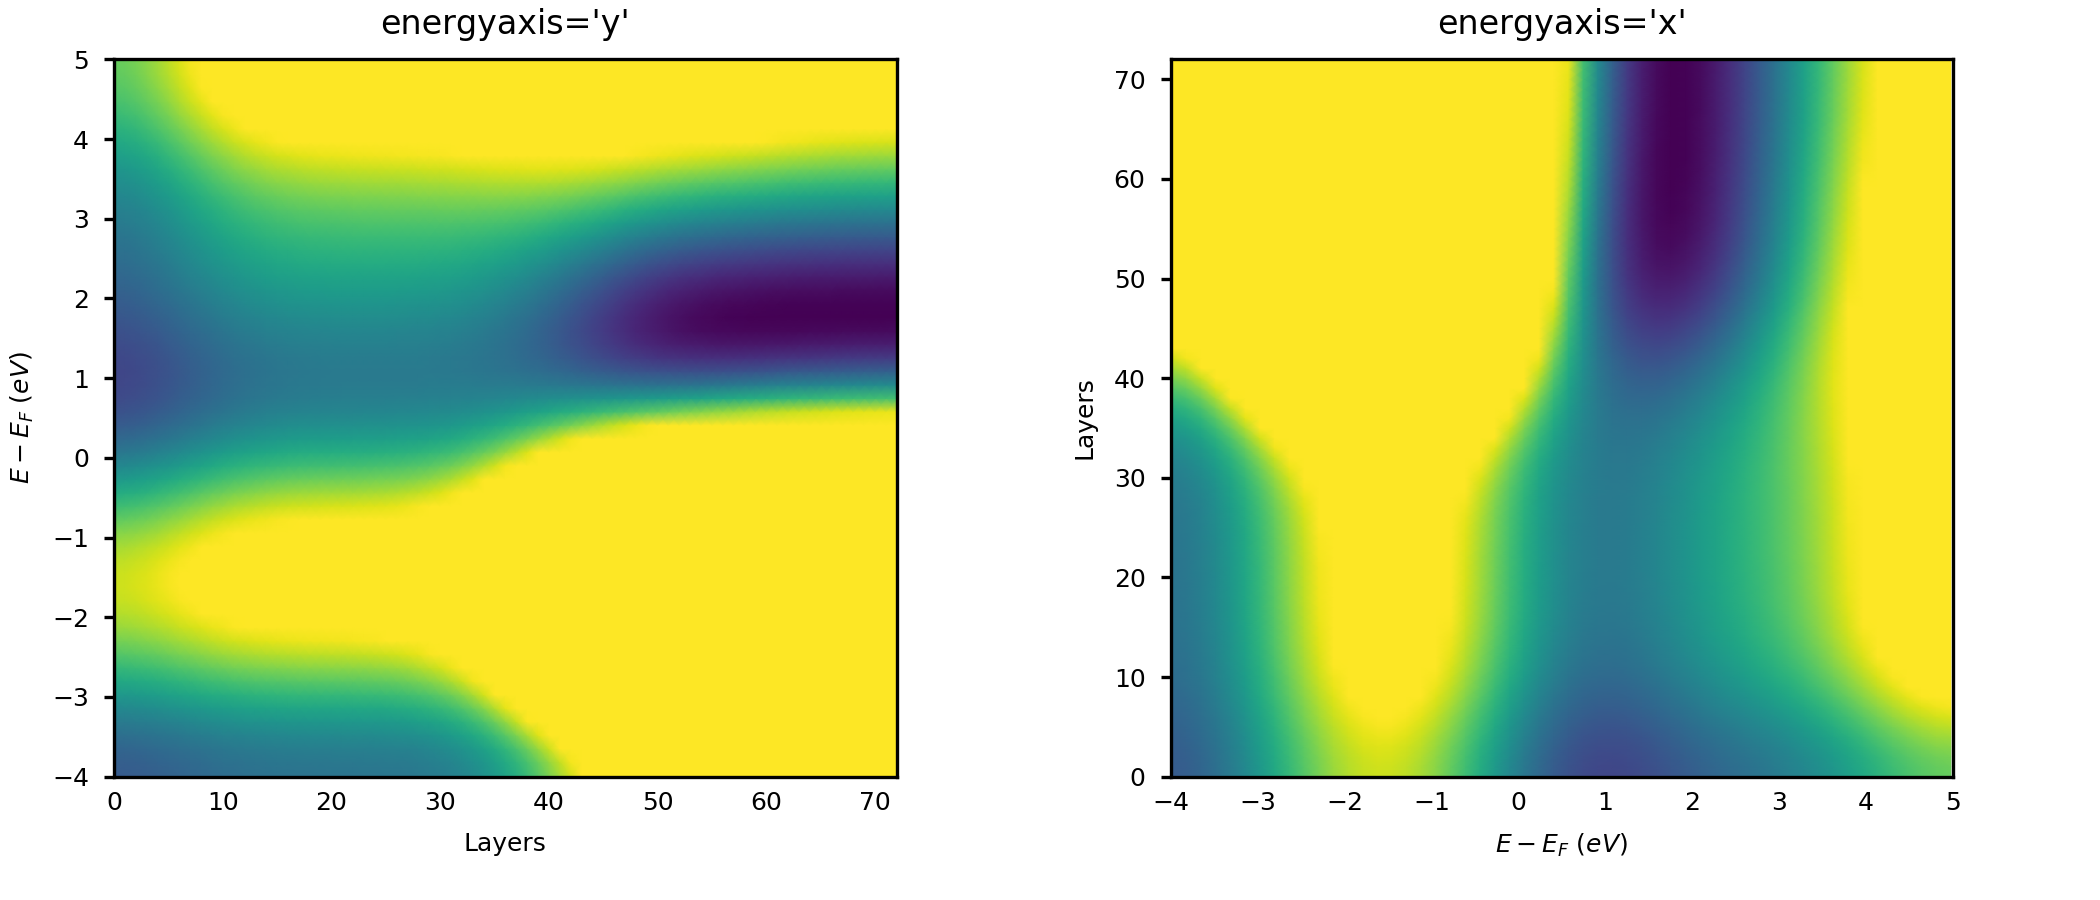
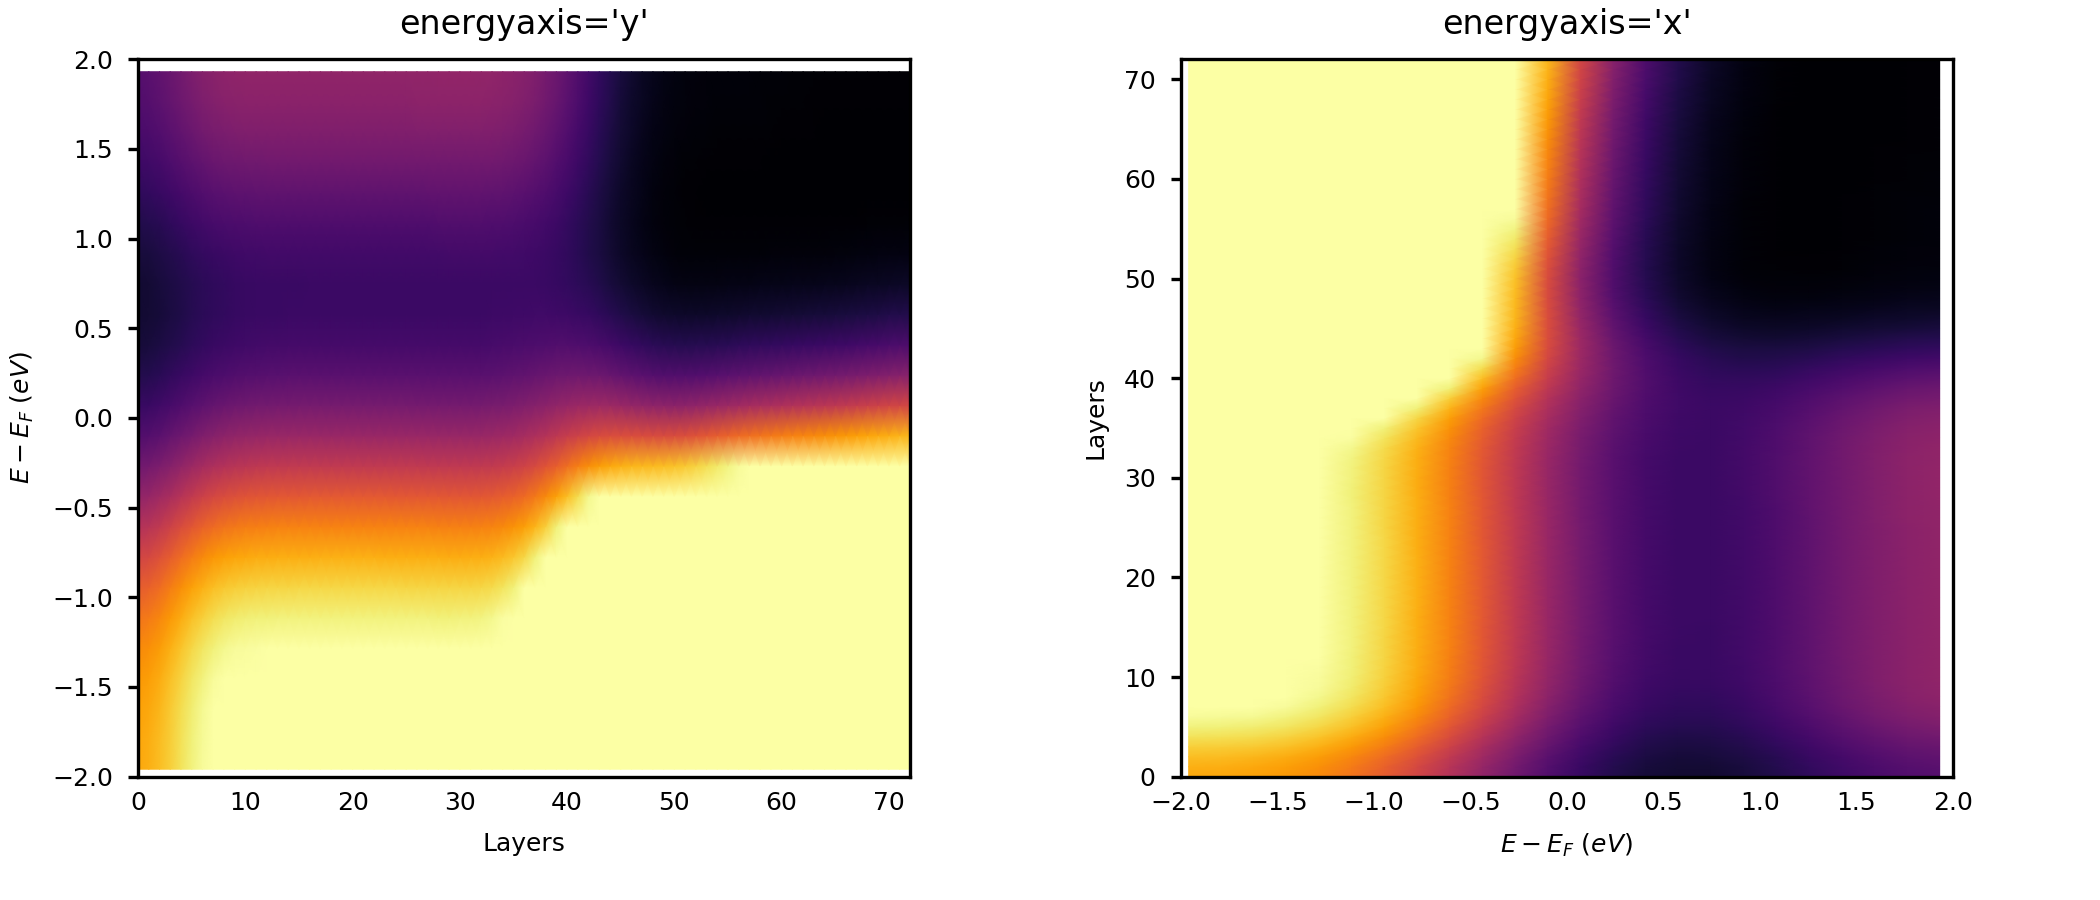
Fixing layer example

diff --git a/example.py b/example.py
@@ -489,7 +489,7 @@ ax17_1 = fig17.add_subplot(121)
 plt.ylabel('$E - E_{F}$ $(eV)$', fontsize=6)
 plt.xlabel('Layers', fontsize=6)
 plt.title("energyaxis='y'", fontsize=8)
-plt.ylim(-4, 5)
+plt.ylim(-2, 2)
 # plt.xlim(0,3)
 plt.tight_layout(pad=0.2)
 plt.tick_params(labelsize=6, length=2.5)
@@ -499,7 +499,7 @@ ax17_2 = fig17.add_subplot(122)
 plt.xlabel('$E - E_{F}$ $(eV)$', fontsize=6)
 plt.ylabel('Layers', fontsize=6)
 plt.title("energyaxis='x'", fontsize=8)
-plt.xlim(-4, 5)
+plt.xlim(-2, 2)
 # plt.ylim(0,3)
 plt.tight_layout(pad=0.2)
 plt.tick_params(labelsize=6, length=2.5)
@@ -507,8 +507,8 @@ plt.tick_params(axis='x', length=0)
 
 plt.subplots_adjust(right=0.93, wspace=0.35)
 
-dosslab.plot_layers(ax=ax17_1, sigma=7, cmap='viridis', ylim=[-4,5])
-dosslab.plot_layers(ax=ax17_2, energyaxis='x', sigma=7, cmap='viridis', ylim=[-4,5])
+dosslab.plot_layers(ax=ax17_1, sigma=4, cmap='inferno', ylim=[-2,2])
+dosslab.plot_layers(ax=ax17_2, energyaxis='x', sigma=4, cmap='inferno', ylim=[-2,2])
 
 plt.savefig('./img/dos/layer_dos.png')
 plt.close()

diff --git a/core/dos.py b/core/dos.py
@@ -1111,7 +1111,7 @@ class DOSPlot:
                 densities,
                 cmap=cmap,
                 shading='gouraud',
-                vmax=0.4,
+                vmax=0.6,
             )
 
         if energyaxis=='x':
@@ -1121,7 +1121,7 @@ class DOSPlot:
                 np.transpose(densities),
                 cmap=cmap,
                 shading='gouraud',
-                vmax=0.4,
+                vmax=0.6,
             )
 
 

diff --git a/setup.py b/setup.py
@@ -1,0 +1,9 @@
+from setuptools import setup
+
+setup(
+    name='vaspvis',
+    version='0.0.1',
+    description='A highly flexible and customizable library for visualizing electronic structure data from VASP calculations.',
+    py_modules=['band', 'dos'],
+    package_dir = {'':'core'}
+)

diff --git a/README.md b/README.md
@@ -98,7 +98,6 @@ plot_element_spd(ax, elements, order=['s', 'p', 'd'], fill=True, alpha=0.3, line
 ```python
 plot_layers(ax, ylim=[-6, 6], cmap='magma', sigma=5)
 ```
-<img src="./img/dos/layer_dos_magma.png"  width="1050" height="450">
 
 
 
